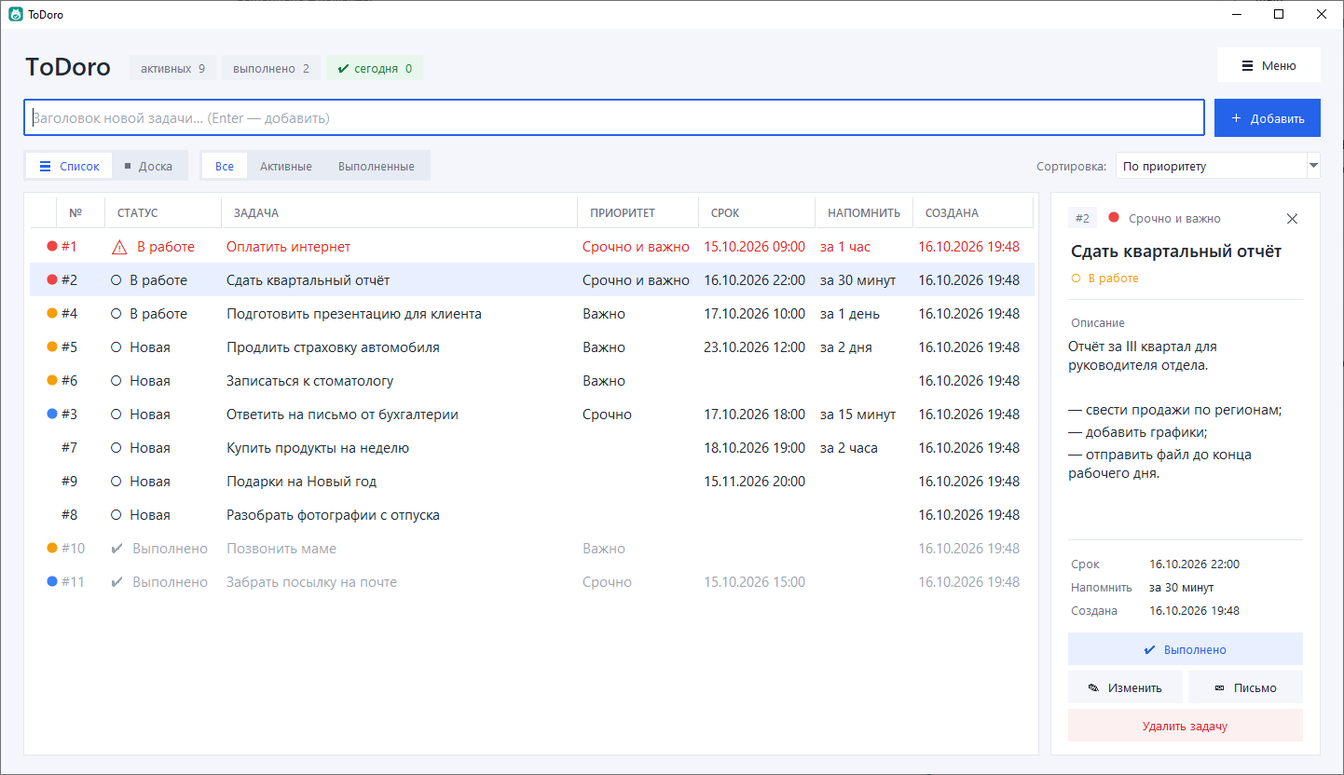
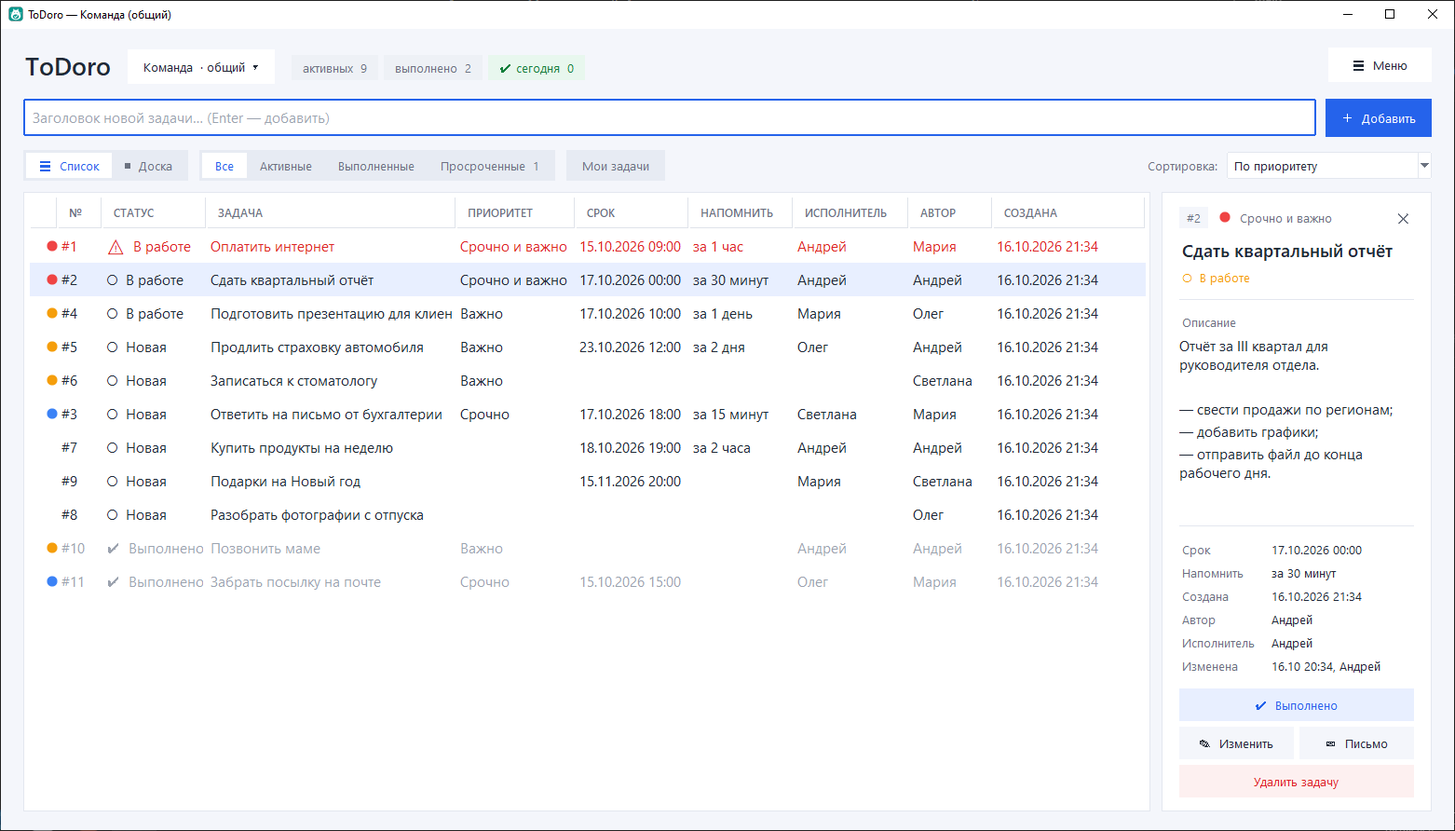
README и скриншоты для 2.0: общий список команды, меню списков, настройки совместной работы, инструкция «как начать работать вместе»

diff --git a/tools/make_screenshots.py b/tools/make_screenshots.py
@@ -1,7 +1,8 @@
 """Скриншоты ToDoro для README: docs/screenshots/*.png и анимация Котобуса catbus.gif.
 
-Снимает на отдельной временной базе с примерами задач — данные пользователя не попадают в кадр.
-Окно на время съёмки встаёт поверх остальных; мышь лучше не трогать (~15 секунд).
+Снимает на отдельных временных данных: личный список и общий список «Команда» с примерами задач
+во временной «общей папке» — данные пользователя не попадают в кадр.
+Окно на время съёмки встаёт поверх остальных; мышь лучше не трогать (~20 секунд).
 Запуск из папки проекта:  python tools/make_screenshots.py
 Нужен Pillow:  pip install pillow
 """
@@ -23,45 +24,95 @@ import db  # noqa: E402
 work = Path(tempfile.mkdtemp(prefix="todoro-shots-"))
 out = ROOT / "docs" / "screenshots"
 out.mkdir(parents=True, exist_ok=True)
-dbfile = work / "shots.db"
-for suffix in ("", "-journal"):
-    Path(str(dbfile) + suffix).unlink(missing_ok=True)
-db.DB_PATH = dbfile
+db.DATA_DIR = work
+db.DB_PATH = work / "todoro.db"
+db.LISTS_DIR = work / "lists"
 db.OLD_DB_PATHS = []
 
+import team  # noqa: E402
 import todoro as T  # noqa: E402
 from examples import make_examples  # noqa: E402
 
-conn = db.connect()
-db.add_examples(conn, make_examples())
-for key, value in (("update_auto", "0"), ("start_mode", "window"), ("view", "list"),
-                   ("update_checked", "2099-01-01")):
-    db.set_setting(conn, key, value)
-with conn:
-    conn.execute("UPDATE tasks SET reminded = 1")  # чтобы окно напоминания не попало в кадр
-ids = {title: tid for tid, title, *_ in db.list_tasks(conn)}
-conn.close()
+ME = "Андрей"
+TEAM = ["Мария", "Олег", "Светлана"]
+# кто создал и кому поручено (по заголовку примера); остальные — без исполнителя
+PEOPLE = {
+    "Оплатить интернет": ("Мария", ME),
+    "Сдать квартальный отчёт": (ME, ME),
+    "Подготовить презентацию для клиента": ("Олег", "Мария"),
+    "Продлить страховку автомобиля": (ME, "Олег"),
+    "Записаться к стоматологу": ("Светлана", None),
+    "Ответить на письмо от бухгалтерии": ("Мария", "Светлана"),
+    "Купить продукты на неделю": (ME, ME),
+    "Разобрать фотографии с отпуска": ("Олег", None),
+    "Подарки на Новый год": ("Светлана", "Мария"),
+    "Позвонить маме": (ME, ME),
+    "Забрать посылку на почте": ("Мария", "Олег"),
+}
 
+# Личный список (основной файл) — с примерами; ещё один личный список «Дом»
+prefs = db.connect()
+db.add_examples(prefs, make_examples())
+db.save_registry(prefs, db.list_registry(prefs) + [{"id": "home", "name": "Дом", "file": "home.db"}])
+db.connect(db.LISTS_DIR.mkdir(parents=True, exist_ok=True) or db.LISTS_DIR / "home.db").close()
+
+# Общий список «Команда» во временной общей папке
+share = team.Team(work / "share")
+for name in [ME] + TEAM:
+    share.touch_member(name)
+item = share.add_list("Команда", ME)
+share.add_list("Проект «Альфа»", "Мария")
+shared = db.connect(share.path(item))
+db.add_examples(shared, make_examples())
+with shared:
+    for title, (author, assignee) in PEOPLE.items():
+        shared.execute("UPDATE tasks SET created_by = ?, assignee = ?, updated_by = ?, "
+                       "updated_at = strftime('%Y-%m-%d %H:%M:%S', 'now', 'localtime', '-1 hour') "
+                       "WHERE title = ?", (author, assignee, author, title))
+    shared.execute("UPDATE tasks SET reminded = 1")
+ids = {title: tid for tid, title, *_ in db.list_tasks(shared)}
+shared.close()
+share.close()
+
+for key, value in (("update_auto", "0"), ("start_mode", "window"), ("view", "list"),
+                   ("update_checked", "2099-01-01"), ("shared_folder", str(work / "share")),
+                   ("user_name", ME), ("current_list", item["id"])):
+    db.set_setting(prefs, key, value)
+# уже «видели» все назначенные задачи — чтобы окно «Вам назначены задачи» не попало в кадр
+db.set_json_setting(prefs, "assigned_seen_lists", [item["id"]])
+db.set_json_setting(prefs, "known_assigned", [f"{item['id']}|{tid}" for tid in ids.values()])
+with prefs:
+    prefs.execute("UPDATE tasks SET reminded = 1")
+prefs.close()
+
+T.TodoApp.check_reminders = lambda self: None  # окна напоминаний не должны попасть в кадр
 root = tk.Tk()
 app = T.TodoApp(root)
-T.center_on_screen(root, 1440, 800)  # пошире, чтобы названия задач не обрезались
+T.center_on_screen(root, 1560, 860)  # пошире, чтобы названия задач и все столбцы помещались
+# ширины столбцов для снимка: место — названию задачи, остальным — по содержимому
+for column, width in (("num", 48), ("status", 112), ("title", 268), ("priority", 128), ("due", 122),
+                      ("remind", 112), ("assignee", 124), ("author", 90), ("created", 116)):
+    app.tree.column(column, width=width)
+app.columns_fitted = True
 root.attributes("-topmost", True)
 T.updater.can_self_update = lambda: True  # на снимке окна обновления — кнопка «Обновить»
 
 
-def frame_box():
+def frame_box(window=None):
     """Окно вместе с заголовком, без невидимой тени Windows 10."""
-    hwnd = ctypes.windll.user32.GetParent(root.winfo_id())
+    hwnd = ctypes.windll.user32.GetParent((window or root).winfo_id())
     rect = wintypes.RECT()
     ctypes.windll.dwmapi.DwmGetWindowAttribute(hwnd, 9, ctypes.byref(rect), ctypes.sizeof(rect))
     return rect.left, rect.top, rect.right, rect.bottom
 
 
-def grab(name, box=None):
-    root.update()
-    time.sleep(0.25)
-    root.update()
-    ImageGrab.grab(box or frame_box(), include_layered_windows=True).save(out / name, optimize=True)
+def grab(name, box=None, window=None):
+    """Снимок окна (по умолчанию главного). Координаты берём уже после того, как окно
+    появилось на экране — иначе в кадр попадёт то, что под ним."""
+    for _ in range(3):
+        root.update()
+        time.sleep(0.25)
+    ImageGrab.grab(box or frame_box(window), include_layered_windows=True).save(out / name, optimize=True)
     print("saved", name)
 
 
@@ -71,26 +122,45 @@ def select(title):
 
 
 def run():
-    # 1. Список с Тоторо
+    # 1. Общий список команды с Тоторо: исполнители, авторы
     app.clear_selection()
+    for _ in range(6):  # даём окну полностью перерисоваться после смены размера
+        root.update()
+        time.sleep(0.2)
     grab("list.png")
-    # 2. Карточка задачи справа
+    # 2. Меню списков: личные и общие
+    app.show_lists_menu()
+    root.update()
+    menu = [w for w in root.winfo_children() if isinstance(w, T._MenuWindow)][-1]
+    menu.update()
+    left, top, _, _ = frame_box()
+    grab("lists.png", (left, top, left + 620, menu.winfo_rooty() + menu.winfo_height() + 16))
+    menu.close()
+    # 3. Карточка задачи справа
     select("Сдать квартальный отчёт")
     grab("card.png")
-    # 3. Форма изменения задачи
+    # 4. Форма изменения задачи (с исполнителем)
     select("Подготовить презентацию для клиента")
     app.edit()
     grab("form.png")
     app.cancel_edit()
     app.clear_selection()
-    # 4. Доска
+    # 5. Доска
     app.view.set("board")
     app.switch_view()
     grab("board.png")
     app.view.set("list")
     app.switch_view()
     app.clear_selection()
-    # 5. Окно обновления: последний выпущенный раздел RELEASE_NOTES.md («Не выпущено» пропускаем),
+    # 6. Настройки — раздел «Совместная работа»
+    dialog = T.SettingsDialog(root, "window", app.card_fields, True, r"\\server\Общая\ToDoro", ME,
+                              ("ok", "Подключено. Участники: " + ", ".join([ME] + TEAM)), "sharing",
+                              check_folder=app.check_folder, check_update=app.check_update_inline)
+    T.center_on_screen(dialog)
+    dialog.attributes("-topmost", True)
+    grab("settings.png", window=dialog)
+    dialog.destroy()
+    # 7. Окно обновления: последний выпущенный раздел RELEASE_NOTES.md («Не выпущено» пропускаем),
     # «текущая» версия — предыдущий выпуск (подменяется только для снимка)
     notes = (ROOT / "RELEASE_NOTES.md").read_text(encoding="utf-8")
     sections = [part for part in notes.split("\n## ")[1:] if part[:1].isdigit()]
@@ -98,15 +168,9 @@ def run():
     T.APP_VERSION = sections[1].split(" ", 1)[0] if len(sections) > 1 else "—"
     dialog = T.UpdateDialog(root, dict(version=version, notes=section, url="", asset_url="x"), lambda: None)
     dialog.attributes("-topmost", True)
-    root.update()
-    time.sleep(0.4)
-    dialog.update()
-    hwnd = ctypes.windll.user32.GetParent(dialog.winfo_id())
-    rect = wintypes.RECT()
-    ctypes.windll.dwmapi.DwmGetWindowAttribute(hwnd, 9, ctypes.byref(rect), ctypes.sizeof(rect))
-    grab("update.png", (rect.left, rect.top, rect.right, rect.bottom))
+    grab("update.png", window=dialog)
     dialog.destroy()
-    # 6. Котобус: отмечаем задачу выполненной и снимаем кадры в отдельном потоке
+    # 8. Котобус: отмечаем задачу выполненной и снимаем кадры в отдельном потоке
     select("Купить продукты на неделю")
     box = frame_box()
     frames = []

diff --git a/README.md b/README.md
@@ -1,11 +1,13 @@
 # ToDoro
 
-Простой список дел и канбан-доска для Windows с Тоторо-помощником.
-A simple to-do list and kanban board for Windows with a Totoro helper.
+Список дел и канбан-доска для Windows — для себя и для небольшой команды — с Тоторо-помощником.
+*A to-do list and kanban board for Windows — for yourself and a small team — with a Totoro helper.*
 
-**[⬇ Скачать установщик / Download](https://github.com/machinist-soft/ToDoro/releases/latest)**
+**[⬇ Скачать установщик / Download](https://github.com/machinist-soft/ToDoro/releases/latest)** ·
+[Что нового / What's new](RELEASE_NOTES.md) ·
+[Сообщить об ошибке / Report a bug](https://github.com/machinist-soft/ToDoro/issues/new?template=bug_report.yml)
 
-![Список задач и Тоторо-помощник / Task list with the Totoro helper](docs/screenshots/list.png)
+![Общий список команды: исполнители, авторы и Тоторо-помощник / Team list with assignees, authors and the Totoro helper](docs/screenshots/list.png)
 
 > **Фан-проект / Fan project**
 >
@@ -25,55 +27,90 @@ A simple to-do list and kanban board for Windows with a Totoro helper.
 
 ## Возможности / Features
 
-**Котобус увозит выполненную задачу** — отметьте задачу выполненной, и по низу окна проедет Котобус.
-*The Catbus carries away a finished task.*
+- **Задачи**: заголовок и описание, срок с календарём, напоминания, приоритет «Срочно / Важно»
+  (матрица Эйзенхауэра), номер у каждой задачи.
+- **Список и канбан-доска**: свои колонки-статусы с цветами, перетаскивание карточек и колонок,
+  фильтры «Все / Активные / Выполненные / Просроченные», сортировка по любому столбцу.
+- **Несколько списков**: личные и **общие для команды** — в общей сетевой папке, в том числе
+  через VPN.
+- **Командная работа**: автор и исполнитель задачи, «Мои задачи», уведомление «Вам назначены
+  задачи», «кто и когда изменил», защита от затирания чужих правок.
+- **Тоторо-помощник** подсказывает, что просрочено и что важнее всего, а **Котобус** увозит
+  выполненные задачи.
+- Экспорт и импорт **CSV (Excel)**, письмо по задаче, подробная справка (F1).
+- **Обновления в один клик**: программа сама сообщает о новой версии и ставит её — задачи
+  сохраняются.
+
+*Tasks with due dates, reminders and urgent / important priority · list and kanban board with
+custom columns, filters and column sorting · several lists, personal and shared with a team via a
+network folder (VPN works) · author and assignee, “My tasks”, “assigned to you” notices, last
+editor, protection against overwriting others’ edits · Totoro hints and the Catbus · CSV export /
+import, e-mail a task, built-in help · one-click updates.*
+
+### Котобус увозит выполненную задачу / The Catbus carries away a finished task
 
 ![Котобус увозит выполненную задачу / The Catbus carries away a finished task](docs/screenshots/catbus.gif)
 
-**Канбан-доска** — колонки-статусы со своими цветами, карточки и колонки перетаскиваются мышью.
-*Kanban board with colored status columns; drag cards and columns with the mouse.*
+### Канбан-доска / Kanban board
+
+Колонки-статусы со своими цветами; на карточках — срок, исполнитель и автор.
+*Colored status columns; cards show the due date, assignee and author.*
 
 ![Канбан-доска / Kanban board](docs/screenshots/board.png)
 
-**Карточка задачи** — описание, срок, напоминание и кнопки действий в правой панели.
-*Task card with description, due date, reminder and actions in the side panel.*
+### Карточка и изменение задачи / Task card and editing
+
+В правой панели — всё о задаче: описание, срок, напоминание, автор, исполнитель, кто изменил.
+Изменяется задача тут же — с выбором исполнителя из участников.
+*The side panel shows everything about a task; edit it right there and pick an assignee.*
 
 ![Карточка задачи / Task card](docs/screenshots/card.png)
 
-**Изменение задачи** — заголовок, описание, статус, срок с календарём, приоритет «Срочно / Важно»,
-напоминание.
-*Edit a task: title, description, status, due date with a calendar, urgent / important priority,
-reminder.*
-
 ![Форма изменения задачи / Task edit form](docs/screenshots/form.png)
 
-**Обновления в один клик** — программа сама сообщает о новой версии и ставит её, задачи сохраняются.
-*One-click updates: the app tells you about a new version and installs it, keeping your tasks.*
+## Совместная работа / Teamwork
+
+Задачи можно раскладывать по спискам: «Личный» и другие — только у вас, **общие** — видят и
+меняют все участники.
+*Keep tasks in several lists: personal ones are yours only, shared ones are visible to everyone.*
+
+![Меню списков: личные и общие / Lists menu: personal and shared](docs/screenshots/lists.png)
+
+**Как начать работать вместе / How to start:**
+
+1. Установите ToDoro на каждом компьютере.
+2. **☰ Меню → Настройки → Совместная работа**: укажите общую сетевую папку (одну и ту же у всех,
+   например `\\сервер\Общая`) и своё имя, нажмите «Проверить подключение» и «Сохранить».
+3. Меню списков → **Новый список** → **Общий — видят и меняют все участники**.
+
+Изменения других участников появляются сами через несколько секунд. Каждый день программа
+сохраняет резервные копии общих списков (за 14 дней).
+*Set the same network folder and your name in Settings → Teamwork, then create a shared list.
+Others’ changes show up within seconds; shared lists are backed up daily.*
+
+![Настройки — совместная работа / Settings — teamwork](docs/screenshots/settings.png)
+
+## Установка и обновление / Install and update
+
+Скачайте `ToDoro-Setup-*.exe` в разделе [Releases](https://github.com/machinist-soft/ToDoro/releases/latest)
+и запустите — права администратора не нужны. Дальше программа сама предложит обновиться, когда
+выйдет новая версия.
+*Download the installer from Releases and run it — no admin rights needed. The app offers updates
+by itself.*
 
 ![Окно обновления / Update dialog](docs/screenshots/update.png)
 
-**Совместная работа** — несколько списков задач (личные и общие для команды в сетевой папке),
-автор и исполнитель задачи, «Мои задачи», защита от затирания чужих правок.
-*Teamwork: several task lists (personal and shared via a network folder), author and assignee,
-“My tasks”, protection against overwriting others’ edits.*
+Если Windows покажет «Система Windows защитила ваш компьютер» — нажмите «Подробнее» →
+«Выполнить в любом случае» (у установщика нет платной цифровой подписи).
 
-А ещё: экспорт и импорт задач в CSV (Excel), сортировка по столбцам, напоминания, письмо по задаче,
-подробная справка (F1).
-*Also: CSV export / import (Excel), column sorting, reminders, e-mail a task, built-in help (F1).*
-
-## Запуск / Running
-
-Проще всего — скачать установщик `ToDoro-Setup-*.exe` в разделе [Releases](https://github.com/machinist-soft/ToDoro/releases).
-Easiest: download the installer from [Releases](https://github.com/machinist-soft/ToDoro/releases).
+Личные задачи хранятся в `%APPDATA%\ToDoro` и не удаляются вместе с программой.
+*Personal tasks are stored in `%APPDATA%\ToDoro` and are kept if the app is uninstalled.*
 
 Из исходного кода нужен Python 3 с Tkinter / From source, requires Python 3 with Tkinter:
 
 ```
 python todoro.py
 ```
-
-Задачи хранятся в файле `%APPDATA%\ToDoro\todoro.db`.
-Tasks are stored in `%APPDATA%\ToDoro\todoro.db`.
 
 ## Нашли ошибку? / Found a bug?
 
@@ -82,10 +119,6 @@ Tasks are stored in `%APPDATA%\ToDoro\todoro.db`.
 прямо из программы: **☰ Меню → Обратная связь**.
 *[Report a bug](https://github.com/machinist-soft/ToDoro/issues/new?template=bug_report.yml) or
 [suggest a feature](https://github.com/machinist-soft/ToDoro/issues/new?template=feature_request.yml).*
-
-## Что нового / Release notes
-
-См. [RELEASE_NOTES.md](RELEASE_NOTES.md). Установщик — в разделе [Releases](https://github.com/machinist-soft/ToDoro/releases).
 
 ## Лицензия / License
 
